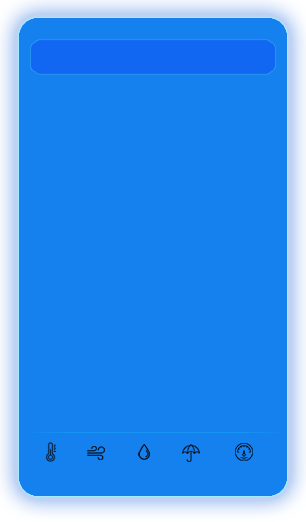
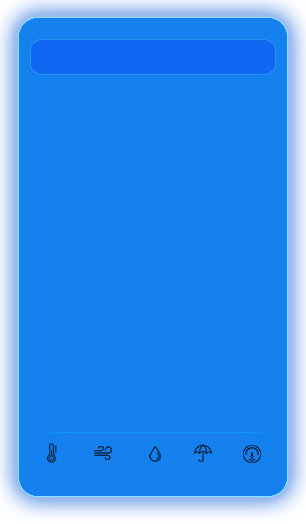
Bind 'Enter' to the textfield area, Fix current_window.png
Search now also uses 'Enter' key to submit.
Fix icon ratio on the bottom row.

diff --git a/world-weather.py b/world-weather.py
@@ -13,11 +13,9 @@ root.geometry('350x680+300+200')
 root.resizable(False, False)
 root.config(bg='black')
 
-# info for precipitation:
-# - Light rain gives up to 2–4 mm (0.07–0.15 in)
-# - Moderate rain gives 5–6 mm (0.19–0.23 in)
-# - Rain or strong rain gives up about 15–20 mm (0.59–0.78 in)
-# - Rainfall gives more than 30 mm (1.18 in)
+# Colors
+l_blue = '#1581ef'
+d_blue = '#1167f2'
 
 
 def format_date(date):
@@ -109,10 +107,6 @@ def get_weather():
     pressure.config(text=f'{current_pressure} hPa', justify='center', bg=l_blue, fg='white')
 
 
-# Colors
-l_blue = '#1581ef'
-d_blue = '#1167f2'
-
 # ------------------- SEARCH BOX ---------------------
 # Search box image
 Search_image = PhotoImage(file='img/current_window.png')
@@ -123,11 +117,13 @@ search_label.place(x=22, y=20)
 textfield = tk.Entry(root, justify='center', width=25, font=('Noto Sans', 11, 'bold'), bg=d_blue, border=0, fg='white')
 textfield.place(x=60, y=67, height=22)
 textfield.focus()
+textfield.bind('<Return>', lambda event=None: search_button.invoke())
 
 # Search icon
 Search_icon = PhotoImage(file='img/magnifying_glass.png')
 search_button = Button(image=Search_icon, activebackground=l_blue, borderwidth=0,
                        cursor='hand2', bg=d_blue, command=get_weather)
+
 search_button.place(x=268, y=65)
 
 # ------ CURRENT WEATHER LABELS (PLACEHOLDERS) -------
@@ -154,18 +150,18 @@ date_info.place(x=69, y=418, height=15)
 
 # Bottom row
 feelslike = Label(text='', font=('Noto Sans', 8, 'bold'), bg=l_blue, fg='white', width=3)
-feelslike.place(x=62, y=487, height=15)
+feelslike.place(x=63, y=487, height=15)
 
 wind = Label(text='', font=('Noto Sans', 8, 'bold'), bg=l_blue, fg='white', width=7)
-wind.place(x=91, y=487, height=15)
+wind.place(x=98, y=487, height=15)
 
 humidity = Label(text='', font=('Noto Sans', 8, 'bold'), bg=l_blue, fg='white', width=4)
-humidity.place(x=152, y=487, height=15)
+humidity.place(x=162, y=487, height=15)
 
-precipitation = Label(text='', font=('Noto Sans', 8, 'bold'), bg=l_blue, fg='white', width=4)
-precipitation.place(x=197, y=487, height=15)
+precipitation = Label(text='', font=('Noto Sans', 8, 'bold'), bg=l_blue, fg='white', width=5)
+precipitation.place(x=204, y=487, height=15)
 
-pressure = Label(text='', font=('Noto Sans', 8, 'bold'), bg=l_blue, fg='white', width=7)
-pressure.place(x=242, y=487, height=15)
+pressure = Label(text='', font=('Noto Sans', 8, 'bold'), bg=lblue, fg='white', width=7)
+pressure.place(x=250, y=487, height=15)
 
 root.mainloop()
